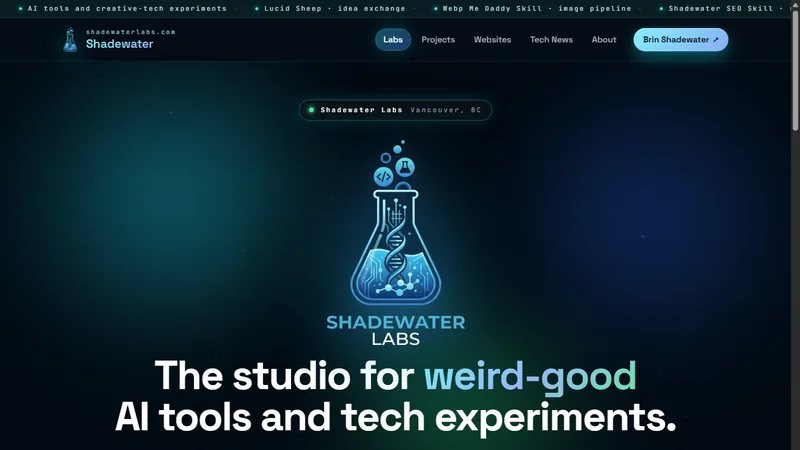
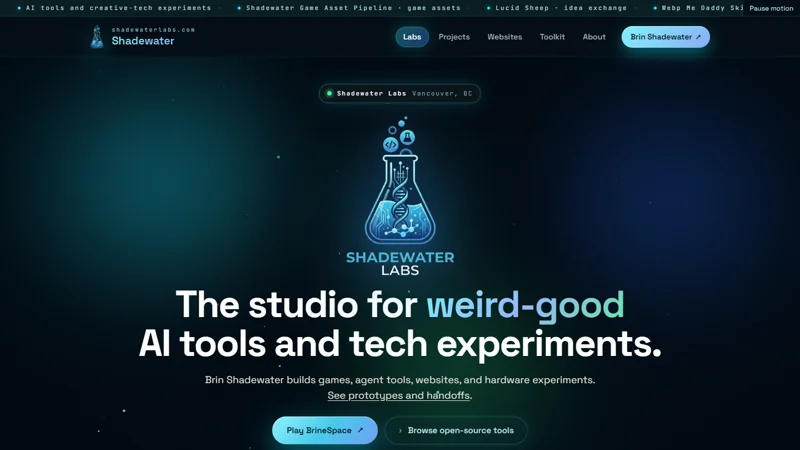
Polish responsive layouts across the Labs site

Changed region(s): [[0.125, 0.1867, 0.8438, 1.0], [0.0312, 0.0, 1.0, 1.0], [0.0625, 0.0622, 0.25, 0.1244]]

diff --git a/src/pages/ShadewaterLabs.tsx b/src/pages/ShadewaterLabs.tsx
@@ -79,7 +79,7 @@ function ADHero({ onNavigate }: { onNavigate: AuroraNavigate }) {
           <span style={home.heroChipMono}>Vancouver, BC</span>
         </div>
 
-        {/* The LCP element on the home page: sized for its 245x350 slot and fetched first. */}
+        {/* The responsive lockup is the primary image in the hero. */}
         <img
           src={SHADEWATER_LABS_TEXT_LOGO_CROPPED_SRC}
           srcSet={SHADEWATER_LABS_TEXT_LOGO_CROPPED_SRCSET}
@@ -89,7 +89,7 @@ function ADHero({ onNavigate }: { onNavigate: AuroraNavigate }) {
           height={350}
           fetchPriority="high"
           decoding="async"
-          style={{ ...home.heroLogo, objectFit: 'cover', width: 245, height: 350 }}
+          style={home.heroLogo}
         />
 
         <h1 id={PAGE_HEADING_ID} tabIndex={-1} style={home.heroTitle} className="home-heroTitle">
@@ -524,7 +524,6 @@ export default function ShadewaterLabs({ onNavigate }: ShadewaterLabsProps) {
     <div style={ad.root}>
       <style>{`
         @media (max-width: 768px) {
-          .home-heroInner { padding: 40px 20px 60px !important; }
           .home-heroTitle { font-size: clamp(2rem, 9vw, 3.5rem) !important; line-height: 1.08 !important; }
           .home-hudGrid { grid-template-columns: repeat(2, 1fr) !important; }
           .home-trackGrid { grid-template-columns: 1fr !important; }
@@ -550,15 +549,15 @@ export default function ShadewaterLabs({ onNavigate }: ShadewaterLabsProps) {
 
 const home: Record<string, CSSProperties> = {
   hero: { position: 'relative', overflow: 'hidden', paddingBottom: 0 },
-  heroInner: { position: 'relative', zIndex: 1, maxWidth: 1180, margin: '0 auto', padding: '64px 32px 88px', textAlign: 'center' },
+  heroInner: { position: 'relative', zIndex: 1, maxWidth: 1180, margin: '0 auto', padding: 'clamp(24px, 4vw, 48px) var(--ad-gutter) clamp(56px, 7vw, 88px)', textAlign: 'center' },
   heroChip: {
-    display: 'inline-flex', alignItems: 'center', gap: 12,
-    padding: '8px 16px', borderRadius: 999,
+    display: 'inline-flex', alignItems: 'center', flexWrap: 'wrap', justifyContent: 'center', gap: '4px 10px',
+    padding: '8px 14px', borderRadius: 999,
     background: 'hsl(200 30% 8% / 0.75)',
     border: '1px solid hsl(186 80% 60% / 0.35)',
     boxShadow: '0 0 30px hsl(186 90% 50% / 0.18)',
-    fontFamily: MONO, fontSize: 11, letterSpacing: '0.24em',
-    color: 'hsl(186 60% 85%)', marginBottom: 30,
+    fontFamily: MONO, fontSize: 11, letterSpacing: '0.16em',
+    color: 'hsl(186 60% 85%)', marginBottom: 18,
   },
   heroChipPulse: {
     width: 8, height: 8, borderRadius: 999, background: 'hsl(150 80% 60%)',
@@ -568,11 +567,11 @@ const home: Record<string, CSSProperties> = {
   heroChipText: { color: '#fff', fontWeight: 600 },
   heroChipMono: { color: 'hsl(186 25% 60%)' },
   heroLogo: {
-    height: 240, width: 'auto', display: 'block', margin: '0 auto 6px',
+    width: 'clamp(145px, 40vw, 205px)', height: 'auto', display: 'block', margin: '0 auto 6px',
     filter: 'drop-shadow(0 30px 80px hsl(186 95% 55% / 0.5)) drop-shadow(0 6px 24px hsl(220 80% 60% / 0.35))',
   },
   heroTitle: {
-    fontSize: 68, lineHeight: 1.02, letterSpacing: '-0.03em', fontWeight: 700,
+    fontSize: 'clamp(2.25rem, 6.2vw, 4.25rem)', lineHeight: 1.02, letterSpacing: '-0.03em', fontWeight: 700,
     margin: '12px auto 0', maxWidth: 980, textWrap: 'balance' as CSSProperties['textWrap'], color: '#fff',
   },
   heroAccent: {
@@ -580,10 +579,10 @@ const home: Record<string, CSSProperties> = {
     WebkitBackgroundClip: 'text', backgroundClip: 'text', color: 'transparent',
   },
   heroLede: {
-    margin: '24px auto 0', maxWidth: 720, color: 'hsl(45 22% 86%)',
-    fontSize: 18, lineHeight: 1.55, textWrap: 'pretty' as CSSProperties['textWrap'],
+    margin: '18px auto 0', maxWidth: 720, color: 'hsl(45 22% 86%)',
+    fontSize: 'clamp(1rem, 2vw, 1.125rem)', lineHeight: 1.55, textWrap: 'pretty' as CSSProperties['textWrap'],
   },
-  heroCtas: { display: 'flex', gap: 14, justifyContent: 'center', marginTop: 36, flexWrap: 'wrap' },
+  heroCtas: { display: 'flex', gap: 12, justifyContent: 'center', marginTop: 24, flexWrap: 'wrap' },
   btnArrow: { transform: 'translateY(-1px)' },
 
   hud: {

diff --git a/src/components/aurora/chrome.tsx b/src/components/aurora/chrome.tsx
@@ -446,21 +446,9 @@ export function AuroraPage({
       <style>{`
         /* ---- Aurora mobile pass ---- */
         @media (max-width: 768px) {
-          /* Nav — layout is handled by ADNav's own <style>, just adjust padding */
-          .ad-navInner { padding: 12px 16px !important; }
-          /* Page hero */
-          .pp-heroInner { padding: 40px 20px 48px !important; }
-          .pp-h1 { font-size: clamp(1.8rem, 7vw, 3rem) !important; }
           /* Grids */
           .pp-sitesGrid { grid-template-columns: 1fr !important; }
           .pp-trackGrid { grid-template-columns: 1fr !important; }
-          .pp-section { padding: 48px 20px 0 !important; }
-          /* Footer */
-          .ad-footerInner { flex-direction: column !important; gap: 20px !important; }
-        }
-        @media (max-width: 540px) {
-          .pp-h1 { font-size: 1.7rem !important; }
-          .pp-lede { font-size: 15px !important; }
         }
       `}</style>
       <ADTicker />
@@ -472,7 +460,7 @@ export function AuroraPage({
         sectionLabel={sectionLabel}
         onNavigate={onNavigate}
       />
-      <div style={pp.body}>{children}</div>
+      <div>{children}</div>
       <ADFooter />
     </div>
   );
@@ -526,8 +514,6 @@ function PageHero({
 /* ----- Page-level shared style sheet (`pp`) ----- */
 
 export const pp: Record<string, CSSProperties> = {
-  body: { paddingTop: 8 },
-
   hero: { position: 'relative', overflow: 'hidden', paddingBottom: 0 },
   heroAurora: { position: 'absolute', inset: 0, pointerEvents: 'none', zIndex: 0, contain: 'strict' as CSSProperties['contain'] },
   blob: { position: 'absolute', borderRadius: '50%', filter: 'blur(64px)', willChange: 'transform' },
@@ -548,7 +534,7 @@ export const pp: Record<string, CSSProperties> = {
   heroInner: {
     position: 'relative', zIndex: 1,
     maxWidth: 1180, margin: '0 auto',
-    padding: '52px 32px 56px',
+    padding: 'clamp(28px, 4vw, 52px) var(--ad-gutter) clamp(24px, 3vw, 40px)',
     textAlign: 'left',
   },
   crumb: {
@@ -574,7 +560,7 @@ export const pp: Record<string, CSSProperties> = {
     color: 'hsl(186 60% 78%)', margin: '0 0 14px',
   },
   h1: {
-    fontSize: 64, lineHeight: 1.02, letterSpacing: '-0.03em', fontWeight: 700,
+    fontSize: 'clamp(2.25rem, 6.4vw, 4rem)', lineHeight: 1.05, letterSpacing: '-0.03em', fontWeight: 700,
     margin: 0, maxWidth: 980, color: '#fff',
     background: 'linear-gradient(180deg, #fff 30%, hsl(186 30% 80%) 100%)',
     WebkitBackgroundClip: 'text', backgroundClip: 'text',
@@ -582,11 +568,11 @@ export const pp: Record<string, CSSProperties> = {
     textWrap: 'balance' as CSSProperties['textWrap'],
   },
   lede: {
-    margin: '20px 0 0', maxWidth: 720,
-    color: 'hsl(45 22% 86%)', fontSize: 18, lineHeight: 1.55,
+    margin: '16px 0 0', maxWidth: 720,
+    color: 'hsl(45 22% 86%)', fontSize: 'clamp(1rem, 2vw, 1.125rem)', lineHeight: 1.55,
   },
 
-  section: { position: 'relative', maxWidth: 1180, margin: '0 auto', padding: '56px 32px 0', zIndex: 1 },
+  section: { position: 'relative', maxWidth: 1180, margin: '0 auto', padding: 'var(--ad-section-space) var(--ad-gutter) 0', zIndex: 1 },
 
   toolbar: {
     display: 'flex', justifyContent: 'space-between', alignItems: 'center',
@@ -904,7 +890,7 @@ export const ad: Record<string, CSSProperties> = {
     borderBottom: '1px solid hsl(186 50% 40% / 0.18)',
   },
   navInner: {
-    maxWidth: 1180, margin: '0 auto', padding: '14px 32px',
+    maxWidth: 1180, margin: '0 auto', padding: 'var(--ad-nav-padding) var(--ad-gutter)',
     display: 'flex', alignItems: 'center', justifyContent: 'space-between',
     flexWrap: 'wrap', gap: 16,
   },
@@ -980,7 +966,7 @@ export const ad: Record<string, CSSProperties> = {
     background: 'linear-gradient(90deg, transparent, hsl(186 90% 60% / 0.5), transparent)',
   },
   footerInner: {
-    maxWidth: 1180, margin: '0 auto', padding: '32px 32px 28px',
+    maxWidth: 1180, margin: '0 auto', padding: '32px var(--ad-gutter) 28px',
     display: 'flex', alignItems: 'center', justifyContent: 'space-between', gap: 24,
     flexWrap: 'wrap' as CSSProperties['flexWrap'],
   },

diff --git a/src/pages/Websites.tsx b/src/pages/Websites.tsx
@@ -91,9 +91,10 @@ interface BrowserFrameProps {
   thumbnail: string;
   thumbnailSrcSet: string;
   fullUrl: string;
+  eager: boolean;
 }
 
-function BrowserFrame({ url, accent, thumbnail, thumbnailSrcSet, fullUrl }: BrowserFrameProps) {
+function BrowserFrame({ url, accent, thumbnail, thumbnailSrcSet, fullUrl, eager }: BrowserFrameProps) {
   const dot: CSSProperties = {
     width: 8,
     height: 8,
@@ -154,7 +155,7 @@ function BrowserFrame({ url, accent, thumbnail, thumbnailSrcSet, fullUrl }: Brow
         <div
           style={{
             position: 'relative',
-            height: 260,
+            height: 'clamp(180px, 42vw, 260px)',
             background: 'hsl(200 30% 9%)',
             overflow: 'hidden',
           }}
@@ -162,10 +163,10 @@ function BrowserFrame({ url, accent, thumbnail, thumbnailSrcSet, fullUrl }: Brow
           <img
             src={thumbnail}
             srcSet={thumbnailSrcSet}
-            // A 260px-tall cover crop needs at least 462px of a 16:9 source.
-            sizes="(min-width: 1180px) 550px, (min-width: 701px) max(462px, calc((100vw - 86px) / 2)), max(462px, calc(100vw - 68px))"
+            // The desktop cover crop needs at least 462px of a 16:9 source.
+            sizes="(min-width: 1180px) 550px, (min-width: 701px) max(462px, calc((100vw - 86px) / 2)), max(320px, calc(100vw - 40px))"
             alt=""
-            loading="lazy"
+            loading={eager ? 'eager' : 'lazy'}
             decoding="async"
             width={800}
             height={450}
@@ -230,7 +231,7 @@ export default function Websites({ onNavigate }: WebsitesProps) {
           }
         `}</style>
         <div style={sitesGrid} className="sites-grid">
-          {sites.map((s) => (
+          {sites.map((s, index) => (
             <article
               key={s.id}
               style={{ ...pp.siteCard, padding: 0, overflow: 'hidden' }}
@@ -248,6 +249,7 @@ export default function Websites({ onNavigate }: WebsitesProps) {
                 thumbnail={s.thumbnail}
                 thumbnailSrcSet={s.thumbnailSrcSet}
                 fullUrl={s.fullUrl}
+                eager={index < 2}
               />
 
               {/* Grows to fill the card so siteFoot's auto margin has slack to push into. */}

diff --git a/src/lib/brandAssets.ts b/src/lib/brandAssets.ts
@@ -21,10 +21,10 @@ export const SHADEWATER_LABS_MARK_HEIGHT = 712;
 export const SHADEWATER_LABS_TEXT_LOGO_ALT = 'Shadewater Labs';
 export const SHADEWATER_LABS_TEXT_LOGO_SRC = '/shadewater-labs-text-logo.webp';
 export const SHADEWATER_LABS_TEXT_LOGO_CROPPED_SRC = '/shadewater-labs-text-logo-cropped.webp';
-// The hero renders this at 245x350 CSS px; 1x, 2x and the 602px original for 3x.
+// Responsive lockup sources for the homepage hero.
 export const SHADEWATER_LABS_TEXT_LOGO_CROPPED_SRCSET =
   '/shadewater-labs-text-logo-cropped-245w.webp 245w, /shadewater-labs-text-logo-cropped-490w.webp 490w, /shadewater-labs-text-logo-cropped.webp 602w';
-export const SHADEWATER_LABS_TEXT_LOGO_CROPPED_SIZES = '245px';
+export const SHADEWATER_LABS_TEXT_LOGO_CROPPED_SIZES = '(max-width: 362px) 145px, (max-width: 512px) 40vw, 205px';
 export const SHADEWATER_LABS_TEXT_LOGO_SRCSET =
   '/shadewater-labs-text-logo-320w.webp 320w, /shadewater-labs-text-logo-640w.webp 640w, /shadewater-labs-text-logo-900w.webp 900w, /shadewater-labs-text-logo.webp 1200w';
 export const SHADEWATER_LABS_TEXT_LOGO_WIDTH = 602;

diff --git a/src/index.css b/src/index.css
@@ -93,6 +93,26 @@ html {
   top: 0;
 }
 
+:root {
+  --ad-gutter: 32px;
+  --ad-nav-padding: 14px;
+  --ad-section-space: 40px;
+}
+
+@media (max-width: 768px) {
+  :root {
+    --ad-gutter: 20px;
+    --ad-nav-padding: 12px;
+    --ad-section-space: 24px;
+  }
+
+  .ad-footerInner {
+    flex-direction: column !important;
+    align-items: flex-start !important;
+    gap: 20px !important;
+  }
+}
+
 button:focus-visible,
 a:focus-visible,
 [role='button']:focus-visible {
